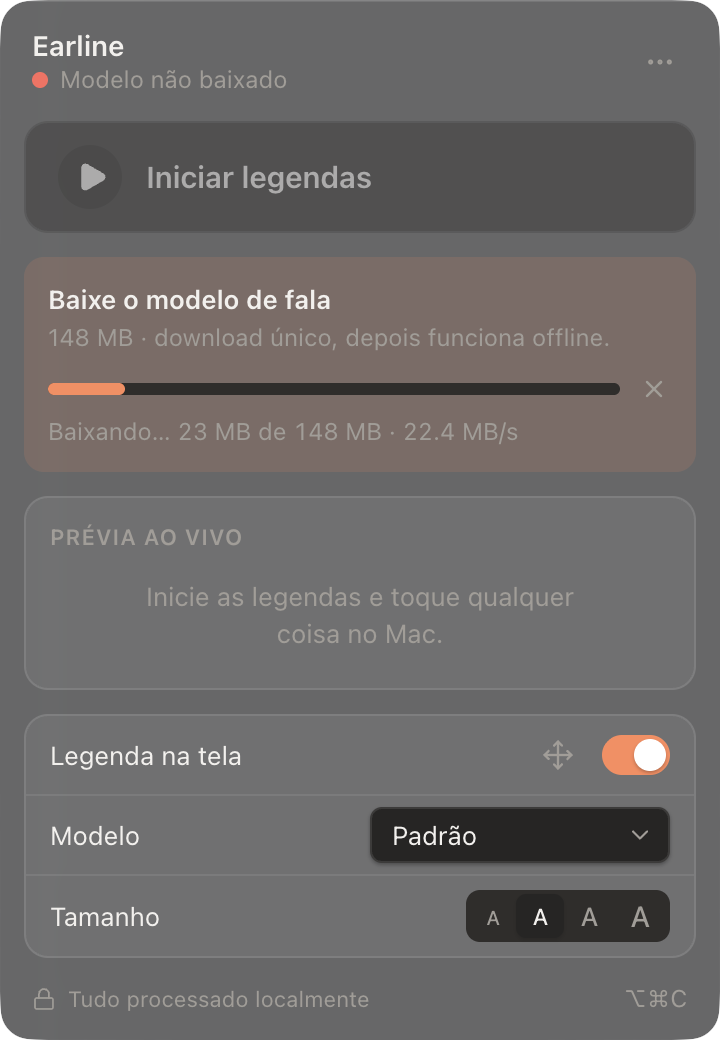
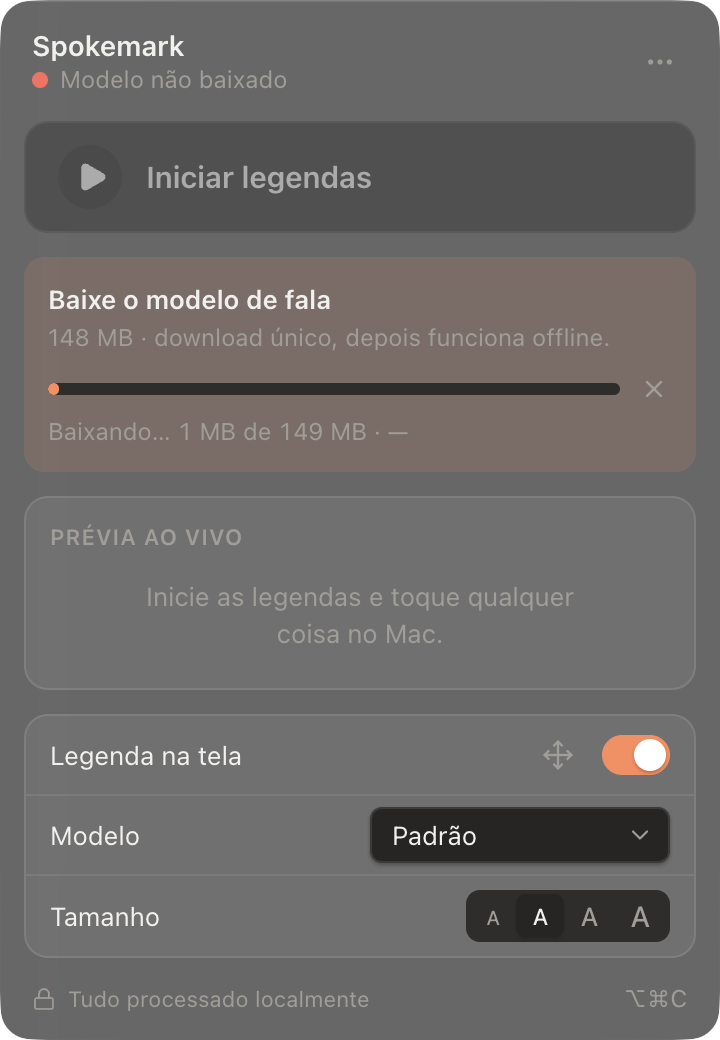
brand: rename to Spokemark (.com and .app unregistered on 2026-10-11)
Single APP_NAME constant; data dir migrates from Earline/Live Captions builds;
docs and light/dark screenshots regenerated.

diff --git a/src/main/paths.ts b/src/main/paths.ts
@@ -1,7 +1,7 @@
 import { existsSync, renameSync } from 'node:fs';
 import { homedir } from 'node:os';
 import path from 'node:path';
-import { APP_NAME, LEGACY_DATA_DIR_NAME } from '../shared/brand';
+import { APP_NAME, LEGACY_DATA_DIR_NAMES } from '../shared/brand';
 
 export { APP_NAME };
 
@@ -9,14 +9,16 @@ export function dataDir(): string {
   return process.env.LC_DATA_DIR ?? path.join(homedir(), 'Library', 'Application Support', APP_NAME);
 }
 
-/** One-time move of the MVP data folder (models, settings) to the new product name. */
+/** One-time move of an earlier build's data folder (models, settings, history) to the current name. */
 export function migrateLegacyDataDir(): boolean {
   if (process.env.LC_DATA_DIR) return false;
-  const legacy = path.join(homedir(), 'Library', 'Application Support', LEGACY_DATA_DIR_NAME);
   const target = dataDir();
-  if (legacy === target || existsSync(target) || !existsSync(legacy)) return false;
-  renameSync(legacy, target); // same volume: instant, models are not copied
-  return true;
+  if (existsSync(target)) return false;
+  for (const name of LEGACY_DATA_DIR_NAMES) {
+    const legacy = path.join(homedir(), 'Library', 'Application Support', name);
+    if (legacy !== target && existsSync(legacy)) { renameSync(legacy, target); return true; } // same volume: instant
+  }
+  return false;
 }
 
 export const MODELS = {

diff --git a/src/preload/app.ts b/src/preload/app.ts
@@ -2,7 +2,7 @@
 // function (names whitelisted) and validated subscriptions.
 import { contextBridge, ipcRenderer, type IpcRendererEvent } from 'electron';
 import { z } from 'zod';
-import { AppStateSchema, CH, CommandSchema, LiveEventSchema, Requests, type EarlineApi, type RequestName } from '../shared/appIpc';
+import { AppStateSchema, CH, CommandSchema, LiveEventSchema, Requests, type SpokemarkApi, type RequestName } from '../shared/appIpc';
 
 function subscribe<T>(channel: string, schema: z.ZodType<T>, cb: (v: T) => void): () => void {
   const h = (_e: IpcRendererEvent, raw: unknown) => {
@@ -13,7 +13,7 @@ function subscribe<T>(channel: string, schema: z.ZodType<T>, cb: (v: T) => void)
   return () => ipcRenderer.off(channel, h);
 }
 
-const api: EarlineApi = {
+const api: SpokemarkApi = {
   request(name, payload) {
     if (!Object.prototype.hasOwnProperty.call(Requests, name)) return Promise.reject(new Error(`unknown request ${String(name)}`));
     const p = Requests[name as RequestName].safeParse(payload);
@@ -30,4 +30,4 @@ const api: EarlineApi = {
 // nativeTheme.themeSource here), read once synchronously; later changes come with the state.
 api.initialDark = ipcRenderer.sendSync(CH.themeSync) === true;
 
-contextBridge.exposeInMainWorld('earline', api);
+contextBridge.exposeInMainWorld('spokemark', api);

diff --git a/src/renderer/shared/base.css b/src/renderer/shared/base.css
@@ -47,15 +47,15 @@ button { font: inherit; color: inherit; background: none; border: 0; padding: 0;
 }
 
 /* Slider: thin track filled with the accent up to the thumb, native-sized thumb. */
-.earline-range { -webkit-appearance: none; appearance: none; height: 20px; background: transparent; }
-.earline-range::-webkit-slider-runnable-track {
+.spokemark-range { -webkit-appearance: none; appearance: none; height: 20px; background: transparent; }
+.spokemark-range::-webkit-slider-runnable-track {
   height: 4px; border-radius: 2px;
   background: linear-gradient(to right, var(--accent) 0 var(--pct), var(--surface-2) var(--pct) 100%);
   box-shadow: inset 0 0 0 0.5px var(--border);
 }
-.earline-range::-webkit-slider-thumb {
+.spokemark-range::-webkit-slider-thumb {
   -webkit-appearance: none; width: 16px; height: 16px; margin-top: -6px; border-radius: 50%;
   background: #fff; box-shadow: 0 0 0 0.5px rgba(0,0,0,.2), 0 1px 3px rgba(0,0,0,.25);
 }
-.earline-range:focus-visible { outline: none; }
-.earline-range:focus-visible::-webkit-slider-thumb { box-shadow: 0 0 0 3px var(--focus), 0 1px 3px rgba(0,0,0,.25); }
+.spokemark-range:focus-visible { outline: none; }
+.spokemark-range:focus-visible::-webkit-slider-thumb { box-shadow: 0 0 0 3px var(--focus), 0 1px 3px rgba(0,0,0,.25); }

diff --git a/src/shared/brand.ts b/src/shared/brand.ts
@@ -1,9 +1,9 @@
 // Single source of truth for the product name (see docs/BRAND.md to change it).
-export const APP_NAME = 'Earline';
-export const APP_TAGLINE_EN = 'Live captions for anything your Mac plays.';
-export const APP_TAGLINE_PT = 'Legendas ao vivo para tudo que o seu Mac toca.';
+export const APP_NAME = 'Spokemark';
+export const APP_TAGLINE_EN = 'Live captions and transcripts for anything your Mac plays.';
+export const APP_TAGLINE_PT = 'Legendas ao vivo e transcrições de tudo que o seu Mac toca.';
 // Kept from the MVP on purpose: the TCC "System Audio Recording" grant is tied to the
 // bundle identifier, so renaming the product does not force users to re-grant it.
 export const BUNDLE_ID = 'dev.local.livecaptions';
-// Data directory used by the MVP; migrated once to the new name on first launch.
-export const LEGACY_DATA_DIR_NAME = 'Live Captions';
+// Data directories used by earlier builds; the first existing one is moved once to the new name.
+export const LEGACY_DATA_DIR_NAMES = ['Earline', 'Live Captions'];

diff --git a/src/renderer/shared/hooks.ts b/src/renderer/shared/hooks.ts
@@ -1,13 +1,13 @@
 import { useCallback, useEffect, useReducer, useState } from 'react';
-import type { AppStateMsg, Command, EarlineApi } from '../../shared/appIpc';
+import type { AppStateMsg, Command, SpokemarkApi } from '../../shared/appIpc';
 import { translate, type StringKey } from '../../shared/i18n';
 import { emptyLive, liveReducer } from './liveReducer';
 
-declare global { interface Window { earline: EarlineApi } }
-export const api = () => window.earline;
+declare global { interface Window { spokemark: SpokemarkApi } }
+export const api = () => window.spokemark;
 
 const applyTheme = (dark: boolean) => { document.documentElement.dataset.theme = dark ? 'dark' : 'light'; };
-applyTheme(window.earline?.initialDark === true); // before React renders anything
+applyTheme(window.spokemark?.initialDark === true); // before React renders anything
 
 /** Main-process state (source of truth), kept in sync over IPC. */
 export function useAppState(): AppStateMsg | null {

diff --git a/src/renderer/shared/ui.tsx b/src/renderer/shared/ui.tsx
@@ -73,7 +73,7 @@ export function Slider({ value, min, max, step = 1, onChange, label, format }: {
   return (
     <div className="flex items-center gap-3 w-full">
       <input type="range" aria-label={label} aria-valuetext={format?.(value)} min={min} max={max} step={step} value={value} onChange={(e) => onChange(Number(e.target.value))}
-        className="earline-range flex-1" style={{ ['--pct' as string]: `${pct}%` }} />
+        className="spokemark-range flex-1" style={{ ['--pct' as string]: `${pct}%` }} />
       {format && <span className="tabular text-[12px] text-[var(--text-2)] w-11 text-right">{format(value)}</span>}
     </div>
   );

diff --git a/src/main/main.ts b/src/main/main.ts
@@ -480,7 +480,7 @@ app.whenReady().then(async () => {
   }
   if (E2E.enabled) {
     // Test hooks for Playwright (main-process evaluate). They call the same functions as the UI.
-    (globalThis as Record<string, unknown>).__earline = {
+    (globalThis as Record<string, unknown>).__spokemark = {
       showPanel: () => windows.togglePanel(tray?.getBounds() ?? null),
       warmPanel: () => windows.warmPanel(),
       openWindow: (n: 'main' | 'settings' | 'onboarding', tab?: string) => windows.open(n, tab ? { tab } : {}),

diff --git a/src/shared/appIpc.ts b/src/shared/appIpc.ts
@@ -98,7 +98,7 @@ export type RequestPayload<K extends RequestName> = z.infer<(typeof Requests)[K]
 
 export const CH = { request: 'app:request', state: 'app:state', live: 'app:live', level: 'app:level', command: 'app:command', themeSync: 'app:theme-sync' } as const;
 
-export interface EarlineApi {
+export interface SpokemarkApi {
   initialDark?: boolean;
   request<K extends RequestName>(name: K, payload?: RequestPayload<K>): Promise<unknown>;
   onState(cb: (s: AppStateMsg) => void): () => void;

diff --git a/tests/unit/ui.test.ts b/tests/unit/ui.test.ts
@@ -34,6 +34,6 @@ describe('i18n', () => {
     expect(resolveLang('system', ['de-DE'])).toBe('en');
     expect(resolveLang('en', ['pt-BR'])).toBe('en');
     expect(translate('pt-BR', 'history.words', { n: 12 })).toBe('12 palavras');
-    expect(translate('en', 'action.quit')).toBe('Quit Earline');
+    expect(translate('en', 'action.quit')).toBe('Quit Spokemark');
   });
 });

diff --git a/tests/unit/store.test.ts b/tests/unit/store.test.ts
@@ -12,7 +12,7 @@ const W = (s: string, t0 = 0): Word[] => s.split(' ').map((t, i) => ({ text: ` $
 let dir: string;
 let store: TranscriptStore;
 beforeEach(() => {
-  dir = mkdtempSync(path.join(tmpdir(), 'earline-store-'));
+  dir = mkdtempSync(path.join(tmpdir(), 'spokemark-store-'));
   store = new TranscriptStore(path.join(dir, 'history.sqlite'));
   store.init();
 });

diff --git a/src/renderer/main.html b/src/renderer/main.html
@@ -3,7 +3,7 @@
   <head>
     <meta charset="UTF-8" />
     <meta http-equiv="Content-Security-Policy" content="default-src 'self'; style-src 'self' 'unsafe-inline'; script-src 'self'; img-src 'self' data:" />
-    <title>Earline</title>
+    <title>Spokemark</title>
   </head>
   <body>
     <div id="root"></div>

diff --git a/src/renderer/onboarding.html b/src/renderer/onboarding.html
@@ -3,7 +3,7 @@
   <head>
     <meta charset="UTF-8" />
     <meta http-equiv="Content-Security-Policy" content="default-src 'self'; style-src 'self' 'unsafe-inline'; script-src 'self'; img-src 'self' data:" />
-    <title>Earline</title>
+    <title>Spokemark</title>
   </head>
   <body>
     <div id="root"></div>
